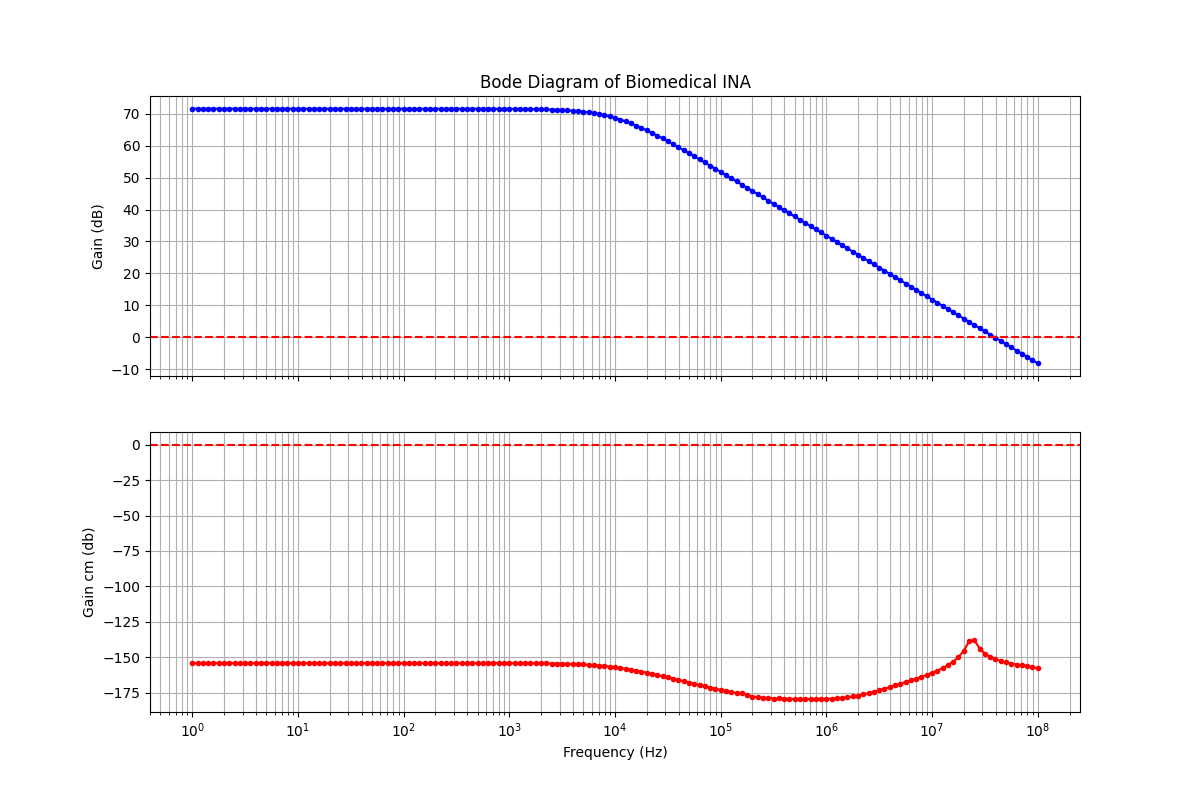
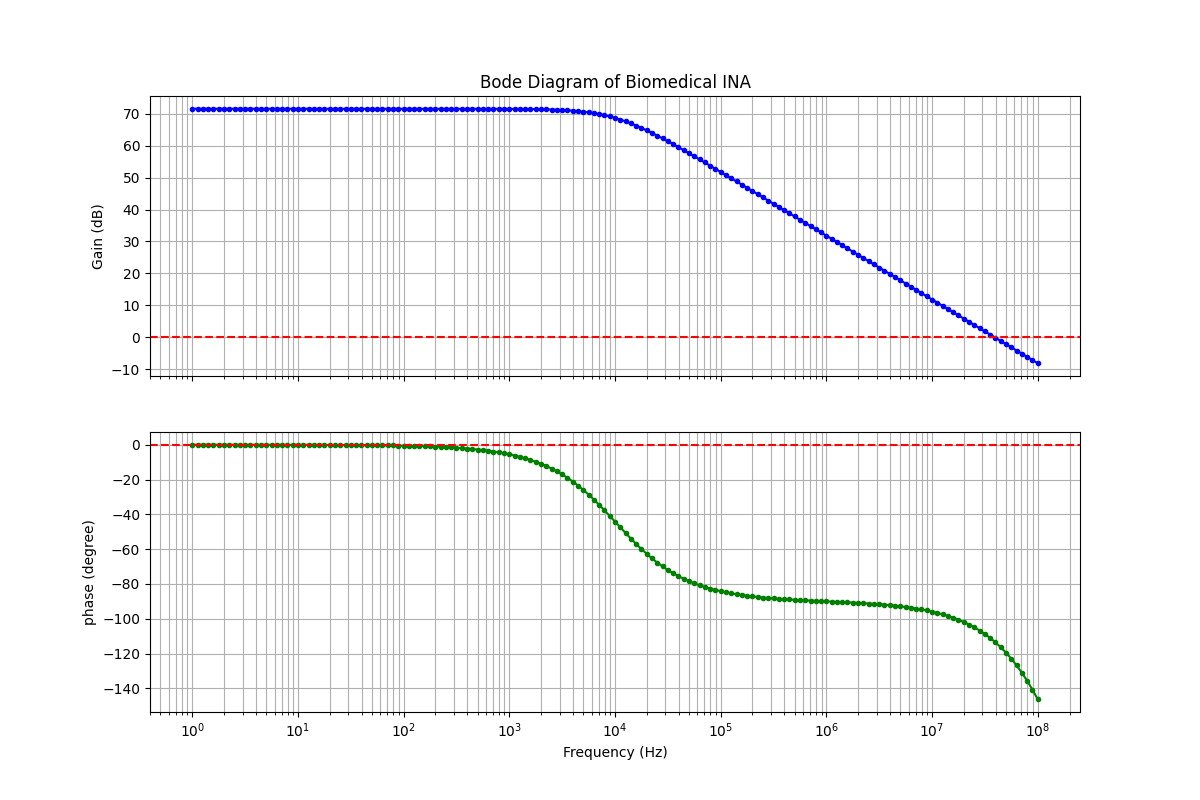
Adding spec comparisons and plots

diff --git a/pyspice/fdda_simulator.py b/pyspice/fdda_simulator.py
@@ -269,6 +269,8 @@ def run_simulation(mode):
         # gain_cm = vout_cm
         gain_cm_db = 20 * np.log10(np.abs(gain_cm))
 
+        cmrr_db = gain_db - gain_cm_db
+
         # finding the gain at the target freq of 1kHz
         target_freq = 1000  # 1kHz
         idx = (np.abs(freq - target_freq)).argmin()
@@ -282,18 +284,6 @@ def run_simulation(mode):
 
         print(f"\n--- AC ANALYSIS RESULTS ---")
         print(f"Calculated DC Gain: {dc_gain:.2f} dB | Calculated GBW: {gbw/1e6:.2f} MHz | Calculated PM: {phase_margin:.2f} degrees")
-
-        # Comparing with the specs
-        specs = {
-            "Open-loop gain": {"val": dc_gain, "target": 70, "unit": "dB", "op": ">="},
-            "GBW": {"val": gbw/1e6, "target": 30, "unit": "MHz", "op": ">="},
-            "Phase Margin": {"val": phase_margin, "target": 60, "unit": "deg", "op": ">"},
-            "CMRR": {"val": cmrr, "target": 120, "unit": "db", "op": ">"}
-            # "Power Total": {"val": power_uw, "target": 500, "unit": "uW", "op": "<="}
-        }
-
-        print(f"\n--- Results ---")
-        all_passed = True
         
         fig, (ax1, ax2) = plt.subplots(2, 1, figsize=(12, 8), sharex=True)
 
@@ -314,16 +304,51 @@ def run_simulation(mode):
         plt.tight_layout()
         # plt.show()
 
+        fig, ax1 = plt.subplots(figsize=(12, 8))
+                
+        l1 = ax1.semilogx(freq, gain_db, label='Gain', color='red', linewidth=2)
+        l2 = ax1.semilogx(freq, cmrr_db, label='CMRR', color='green', linestyle='--')
+        ax1.set_xlabel("Frequency (Hz)")
+        ax1.set_ylabel("Magnitude (dB)", color='black')
+        ax1.grid(True, which="both", ls="-", alpha=0.5)
+
+        ax2 = ax1.twinx() 
+        l3 = ax2.semilogx(freq, phase_deg, label='Phase', color='blue', linestyle='-.')
+        ax2.set_ylabel("Phase (Degrees)", color='blue')
+                
+        lns = l1 + l2 + l3
+        labs = [l.get_label() for l in lns]
+        ax1.legend(lns, labs, loc='center right')
+
+        plt.title("Frequency response plot with Gain, Phase, CMRR for the FDDA circuit")
+        plt.tight_layout()
+        plt.savefig('Frequency_response.png')
+        # plt.show()
+
+        specs = {
+            "Open-loop gain": {"val": dc_gain, "target": 70, "unit": "dB", "op": ">="},
+            "GBW": {"val": gbw/1e6, "target": 30, "unit": "MHz", "op": ">="},
+            "Phase Margin": {"val": phase_margin, "target": 60, "unit": "deg", "op": ">"},
+            "CMRR": {"val": cmrr, "target": 120, "unit": "db", "op": ">"}
+                    # "Power Total": {"val": power_uw, "target": 500, "unit": "uW", "op": "<="}
+        }
+
+        print(f"\n--- Results ---")
+        all_passed = True
+
         for key, s in specs.items():
             passed = (s['val'] >= s['target']) if s['op'] == ">=" else (s['val'] <= s['target'])
             if s['op'] == ">": passed = s['val'] > s['target']
-            
+                    
             status = "PASS" if passed else "FAIL"
             if not passed: all_passed = False
             print(f"{key}: {s['val']:.2f}{s['unit']} (Target: {s['op']}{s['target']}) -> {status}")
 
+            with open('specs_comparison.txt', 'a') as f:
+                f.write(f"{key}: {s['val']:.2f}{s['unit']} (Target: {s['op']}{s['target']}) -> {status}\n")
+
         return all_passed
-    
+
 
     elif mode == 'TRANS':
         circuit.V('vpp', 'Vpp', circuit.gnd, 'SIN(0.9V 10mV 100Hz)') 
@@ -360,77 +385,72 @@ def run_simulation(mode):
         # plt.show()
 
     elif mode == 'SLEW':
-        circuit.V('vpp', 'Vpp', circuit.gnd, 'PULSE(0.9 1.0 10u 1n 1n 20u 40u)')
-        circuit.V('vpn', 'Vpn', circuit.gnd, 'PULSE(0.9 0.8 10u 1n 1n 20u 40u)') 
-        circuit.R('fback1', 'Vop', 'Vnp', 1@u_Ohm) 
-        circuit.R('fback2', 'Von', 'Vnn', 1@u_Ohm)
-        circuit.C('L1', 'Vop', circuit.gnd, 5@u_pF)
-        circuit.C('L2', 'Von', circuit.gnd, 5@u_pF)
+        circuit.V('vpp', 'Vpp', circuit.gnd, 'PULSE(0.9 1.5 10u 10n 10n 20u 40u)')
+        circuit.V('vpn', 'Vpn', circuit.gnd, 'PULSE(0.9 0.3 10u 10n 10n 20u 40u)') 
+        circuit.R('f1', 'Vop', 'Vnp', 1000@u_Ohm)
+        circuit.R('f2', 'Von', 'Vnn', 1000@u_Ohm)
+        circuit.C('L1', 'Vop', circuit.gnd, 1@u_pF)
+        circuit.C('L2', 'Von', circuit.gnd, 1@u_pF)
 
         simulator = circuit.simulator(simulator='ngspice-subprocess')
-        analysis = simulator.transient(step_time=100@u_ps, end_time=50@u_us, max_time=1@u_ns)
+        simulator.options('rshunt=1e12', 'method=gear', 'abstol=1e-12') # More stable for fast transitions
+        analysis = simulator.transient(step_time=1@u_ns, end_time=50@u_us, max_time=10@u_ns)
         
-        time = np.array(analysis.time)
-        time = time.astype(float)
+        time = np.array(analysis.time).astype(float)
+        vout = np.array(analysis.nodes['Vop']) - np.array(analysis.nodes['Von'])
+        vin  = np.array(analysis.nodes['Vpp']) - np.array(analysis.nodes['Vpn'])
+
+        mask = (time >= 9e-6) & (time <= 10.5e-6)
+        time_zoom = time[mask]
+        vout_zoom = vout[mask]
+        vin_zoom = vin[mask]
 
         vop = np.array(analysis.nodes['Vop'])
         von = np.array(analysis.nodes['Von'])
         vpp = np.array(analysis.nodes['Vpp'])
         vpn = np.array(analysis.nodes['Vpn'])
+        vnp = np.array(analysis.nodes['Vnp'])
+        vnn = np.array(analysis.nodes['Vnn'])
+        vcmfb = np.array(analysis.nodes['Vcmfb'])
 
         print("Vop DC:", float(vop[0]))
         print("Von DC:", float(von[0]))
         print("Vpp DC:", float(vpp[0]))
         print("Vpn DC:", float(vpn[0]))
-
-        
-        vout = vop - von
-        vin = vpp - vpn
-        print("Vout:", vout)
-        print("Vin:", vin)
-
-        v_min = np.min(vout)
-        v_max = np.max(vout)
-
-        v_swing = float(v_max) - float(v_min)
-
-        print("Vout min:", v_min)
-        print("Vout max:", v_max)
-        print("Vout swing:", v_swing)
-
-        v_10 = float(v_min) + (0.1 * v_swing)
-        v_90 = float(v_max) - (0.1 * v_swing)
-        print("V_10:", v_10)
-        print("V_90:", v_90)
+        print("Vnp DC:", float(vnp[0]))
+        print("Vnn DC:", float(vnn[0]))
+        print("Vcmfb DC:", float(vcmfb[0]))
+        print("Vout:", vout_zoom)
+        print("Vin:", vin_zoom)
 
         try:
-            # idx_10 = np.where(vout >= v_10)[0][0]
-            # idx_90 = np.where(vout >= v_90)[0][0]
-
-            # t_10 = time[idx_10]
-            # t_90 = time[idx_90]
-
-            # slew = (v_90 - v_10) / (t_90 - t_10)
-            # slew_us = slew / 1e6
-
-            idx_10 = np.where(vout >= v_10)[0][0]
-            idx_90 = np.where(vout >= v_90)[0][0]
+            v_min = np.min(vout_zoom)
+            v_max = np.max(vout_zoom)
+            v_swing = v_max - v_min
             
-            t_10, t_90 = time[idx_10], time[idx_90]
-            v_actual_10, v_actual_90 = vout[idx_10], vout[idx_90]
+            target_v_10 = v_min + (0.10 * v_swing)
+            target_v_90 = v_min + (0.90 * v_swing)
+
+            idx_10 = np.where(vout_zoom >= target_v_10)[0][0]
+            idx_90 = np.where(vout_zoom >= target_v_90)[0][0]
+            print("idx_10:", idx_10)
+            print("idx_90:", idx_90)
+            
+            t_10, t_90 = time_zoom[idx_10], time_zoom[idx_90]
+            v_actual_10, v_actual_90 = vout_zoom[idx_10], vout_zoom[idx_90]
+            print("t_10:", t_10)
+            print("t_90:", t_90)
+            print("vactual_10:", v_actual_10)
+            print("vactual_90:", v_actual_90)
 
             # 4. Calculate Slew Rate
             slew = (v_actual_90 - v_actual_10) / (t_90 - t_10)
             slew_us = slew / 1e6  # V/us
             print(f"Measured Slew Rate: {slew_us:.2f} V/us")
         except IndexError:
+            slew_us = 0
             print("Error: The output didn't reach the 10%/90% thresholds. Check your gain/bias.")
 
-        # t_10 = np.interp(v_10, vout, time)
-        # t_90 = np.interp(v_90, vout, time)
-
-        # slew = (v_90 - v_10) / (t_90 - t_10)
-        # slew_us = slew / 1e6  # Convert to V/us
         
         print(f"\n--- SLEW RATE ---")
         print(f"Measured Slew Rate: {slew_us:.2f} V/us")
@@ -438,20 +458,43 @@ def run_simulation(mode):
 
         fig, (ax1, ax2) = plt.subplots(2, 1, figsize=(12, 8), sharex=True)
 
-        ax1.plot(time, vin, color='blue', linestyle='-')
+        ax1.plot(time_zoom * 1e6, vin_zoom, color='blue', linestyle='-')
         ax1.set_ylabel('Input Voltage (V)')
         ax1.grid(True, which="both", ls="-")
         ax1.set_title("Slew Response (positive closed loop)")
 
-        ax2.plot(time, vout, color='blue', linestyle='-')
+        ax2.plot(time_zoom * 1e6, vout_zoom, color='blue', linestyle='-')
         ax2.set_ylabel('Output Voltage (V)')
         ax2.set_xlabel('Time (s)')
         ax2.grid(True, which="both", ls="-")
 
-        plt.xlim(9e-6, 15e-6)
+        if slew_us > 0:
+            ax2.scatter([t_10*1e6, t_90*1e6], [v_actual_10, v_actual_90], color='black', zorder=5)
+
+        plt.xlim(9.5, 10.5)
         plt.tight_layout()
         plt.savefig('Slewrate_positive_closedloop.png')
         # plt.show()
+
+        all_passed = True
+
+        specs = {
+            "Slewrate": {"val": slew_us, "target": 1, "unit": "V/us", "op": ">"}
+        }
+
+        for key, s in specs.items():
+            passed = (s['val'] >= s['target']) if s['op'] == ">=" else (s['val'] <= s['target'])
+            if s['op'] == ">": passed = s['val'] > s['target']
+                    
+            status = "PASS" if passed else "FAIL"
+            if not passed: all_passed = False
+            print(f"{key}: {s['val']:.2f}{s['unit']} (Target: {s['op']}{s['target']}) -> {status}")
+
+            with open('specs_comparison.txt', 'a') as f:
+                f.write(f"{key}: {s['val']:.2f}{s['unit']} (Target: {s['op']}{s['target']}) -> {status}\n")
+
+        return all_passed
+        
 
 params = {
     'W_1': 88, 'L_1': 1, 'nf_1': 1, 'm_1': 1,
@@ -466,37 +509,7 @@ generate_spice_file(params)
 generate_cmfb(params)
 generate_bias()
 
-# run_simulation('AC')
-# run_simulation('OP')
-# run_simulation('TRANS')
+run_simulation('AC')
+run_simulation('TRANS')
 run_simulation('SLEW')
 
-
-
-
-
-
-# elif mode == 'OP':
-#         circuit.V('vp', 'Vpp', circuit.gnd, 'SIN(0.9V 1mV 100kHz)')
-#         circuit.V('vn', 'Vnn', circuit.gnd, 'SIN(0.9V 1mV 100kHz)')
-
-#         simulator = circuit.simulator(simulator='ngspice-subprocess')
-
-#         try:
-#             analysis = simulator.operating_point()
-#             print(f"Success! Vop: {analysis.nodes['Vop'][0]:.4f} V")
-#         except Exception as e:
-#             # If it fails, we finally look at the internal Ngspice error buffer
-#             print("\n--- NGSPICE ERROR LOG ---")
-#             print(str(simulator))
-#             # Access the shared instance to see what went wrong inside
-#             # print(NgSpiceShared.get_instance().stdout)
-#             print(e)
-#             raise e
-
-#         iq = float(analysis.branches['vVDD'][0])
-#         Vop = float(analysis.nodes['Vop'][0])
-
-#         print(f"\n--- OPERATING POINT RESULTS ---")
-#         print(f"Node 'Vop'  : {Vop:.4f} V")
-#         print(f"I-Quiescent : {abs(iq)*1e6:.2f} uA")
